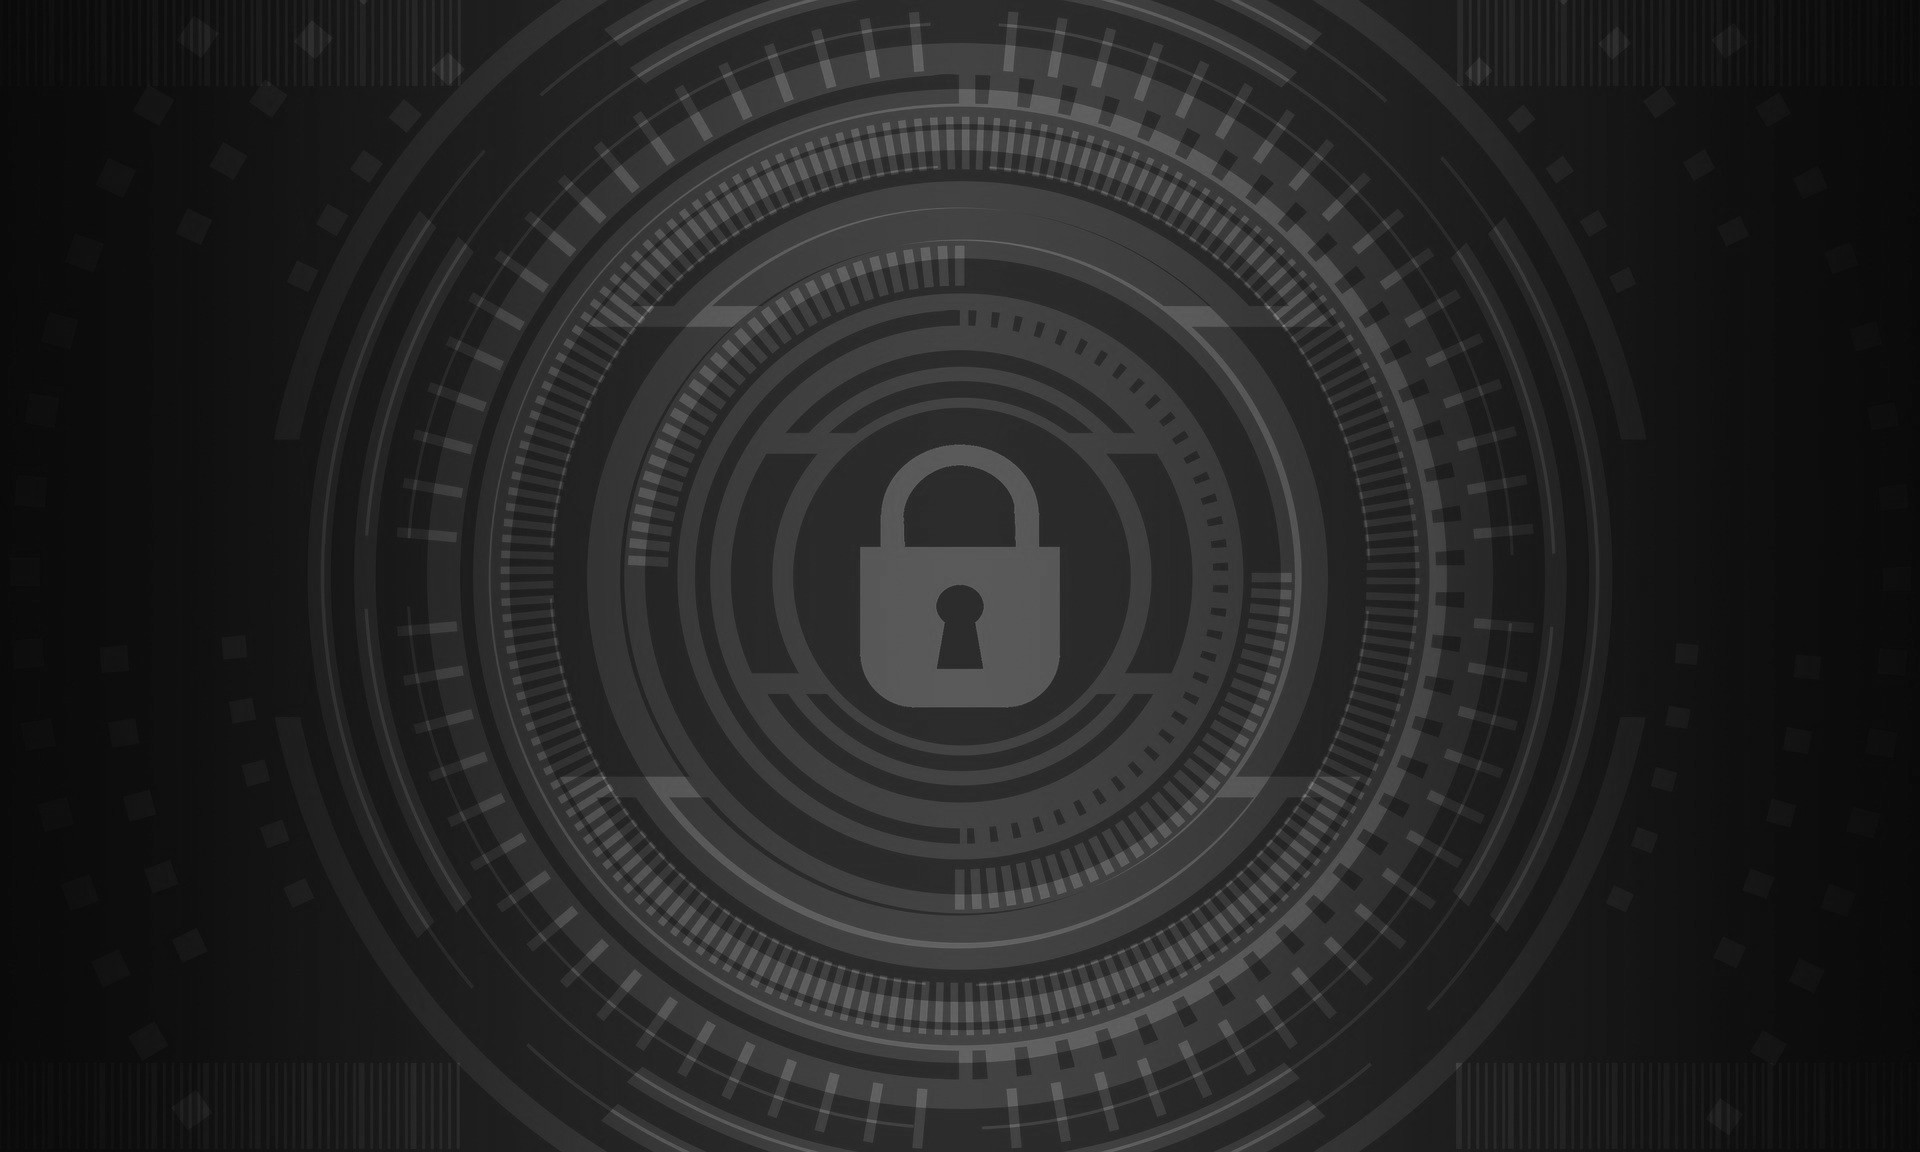
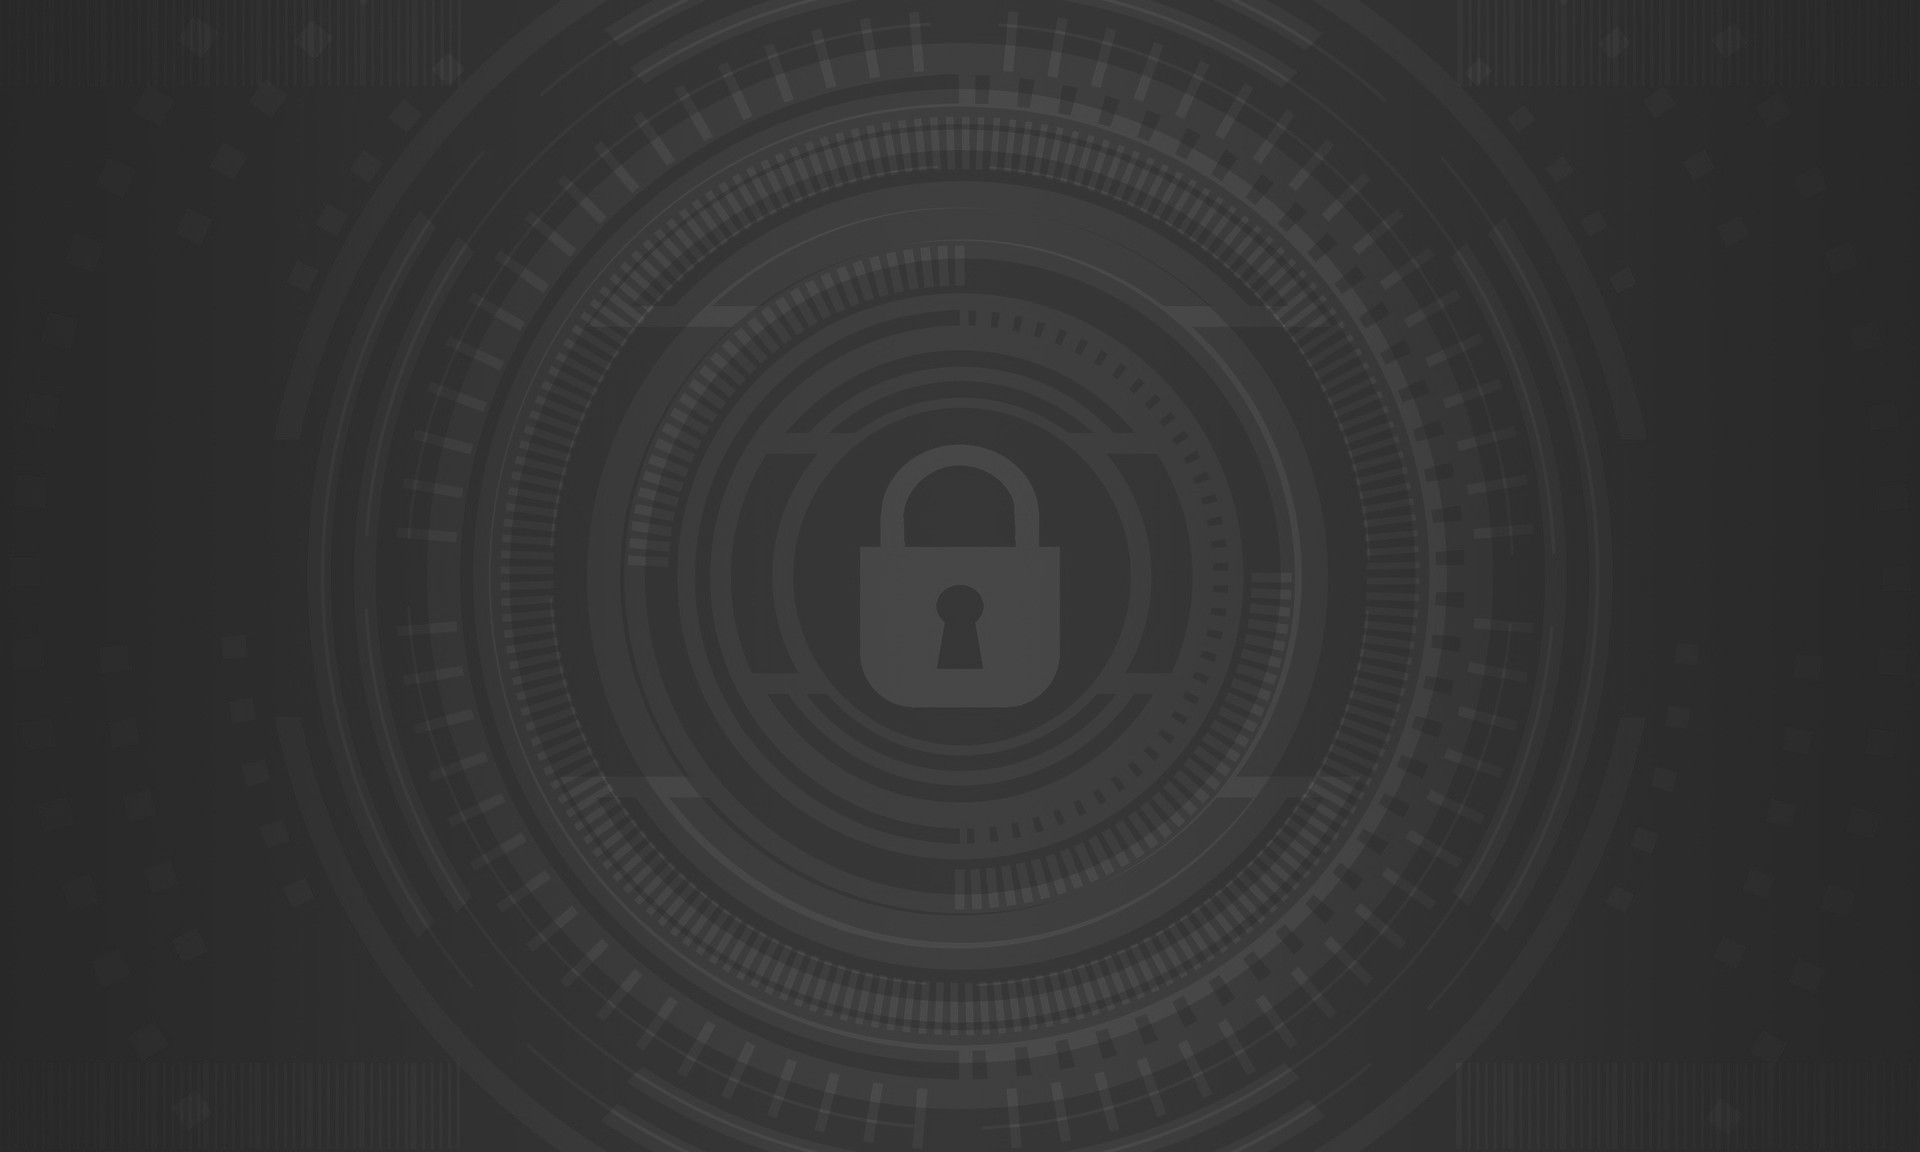
background e inicio readme

diff --git a/src/index.html b/src/index.html
@@ -2,7 +2,7 @@
 <html>
   <head>
     <meta charset="utf-8">
-    <title>Conexão Segura</title>
+    <title>Encode Yourself</title>
     <link rel="stylesheet" href="style.css" />
     <link rel="icon" href="images/icon.png" type="image/x-icon">
   </head>
@@ -21,21 +21,21 @@
 
       <div id="container">
         <div class="cxtxt">
-          <label for="decoded">Texto Decodificado</label>
+          <label for="decoded">Texto a ser Cifrado</label>
             <textarea id="decoded" placeholder="Digite o texto aqui"></textarea>
         </div>
 
         <div id="buttons">
           <br>
-          <input type="submit" id="cifrar" value="Cifrar">
+          <input type="submit" id="cifrar" value="Cifrar >>>">
 
-          <input type="submit" id="decifrar" value="Decifrar">
+          <input type="submit" id="decifrar" value="<<< Decifrar">
 
           <input type="reset" id="clear" value="Limpar">
         
         </div>
         <div class="cxtxt">
-          <label for="encoded">Texto Codificado</label>
+          <label for="encoded">Texto a ser Decifrado</label>
           <textarea id="encoded" placeholder="Digite o texto aqui"></textarea>
         </div>
       </div>

diff --git a/src/style.css b/src/style.css
@@ -6,13 +6,11 @@ body{
     text-align: center;
     color: #fff;
     background-color: rgb(22, 22, 22);
-    /* height: 100%; */
     padding: 20px;
     font-size: 24px; 
     font-family: Amaranth;
     background: url(images/cyber.jpg) no-repeat;
     background-size: cover;
-    background-position: center;
 }
 h1{
     font-family: 'Press Start 2P';
@@ -69,6 +67,7 @@ textarea{
     width: 100%;
     height: 200px;
     border-radius: 12px;
+    padding: 15px;
 }
 
 

diff --git a/README.md b/README.md
@@ -3,17 +3,10 @@
 ## Índice
 
 * [1. Prefácio](#1-prefácio)
-* [2. Resumo do projeto](#2-resumo-do-projeto)
-* [3. Objetivos de aprendizagem](#3-objetivos-de-aprendizagem)
-* [4. Considerações gerais](#4-considerações-gerais)
-* [5. Critérios de aceitação mínimos do
-  projeto](#5-criterios-de-aceitação-mínimos-do-projeto)
-* [6. Hacker edition](#6-hacker-edition)
-* [7. Considerações técnicas](#7-considerações-técnicas)
-* [8. Avaliação](#8-avaliação)
-* [9. Guias, dicas e leituras
-  complementares](#9-guias-dicas-e-leituras-complementares)
-* [10. Checklist](#10-checklist)
+* [2. Projeto "Encode Yourself"](#2-projeto-"encode-yourself")
+* [3. Funcionamento](#3-funcionamento)
+* [4. Considerações finais](#4-considerações-finais)
+* [5. Checklist](#5-checklist)
 
 ***
 
@@ -44,238 +37,17 @@ com facilidade e não oferecem muita segurança na comunição, mas a cifra de C
 muitas vezes pode fazer parte de um sistema mais complexo de criptografia, como
 a cifra de Vigenère, e tem aplicação no sistema ROT13.
 
-## 2. Resumo do projeto
+## 2. Projeto "Encode Yourself"
 
-O que eu tenho que fazer exatamente? Neste projeto você criará a primeira
-aplicação web do _bootcamp_. Nela o usuário poderá cifrar e decrifrar um texto
-indicando a chave de deslocamento (_offset_).
 
-O tema é livre. Você deve pensar em alguma situação de vida real em que seja
-necessário cifrar uma mensagem e pensar em como deve ser a experiência do
-usuário (tela, explicações, mensagens, cores, marca?, etc.). Algumas ideias de
-exemplo:
+## 3. Funcionamento 
 
-* Mensagens secretas para alguma pessoa.
-* Ferramenta de mensagens internas de uma organização em uma zona de conflito.
-* Cifrar cartões de crédito.
-* Criar senhas seguras para email.
 
-## 3. Objetivos de aprendizagem
+## 4. Considerações finais
 
-Neste projeto você aprenderá a construir uma aplicação web que interaja com o
-usuário através do navegador e a lógica para essa interação. Em outras palavras,
-você aprenderá:
 
-* Desenhar elementos de formulário em uma tela usando **HTML** e **CSS**.
-* Permitir o usuário interagir com elementos do DOM e fazer com que a aplicação
-  responda (cifrar/decifrar) quando ocorrer os **eventos de DOM**.
-* Manipular _strings_ (cadeias de texto).
-* Usar **controle de fluxo** (laços, condicionais, ...).
-* Atualizar a tela com os resultados (**manipular o DOM**).
-* **Implementar funções** dada uma descrição de comportamento.
-* Verificar a sua implementação com **provas unitárias**.
-* Entender as **necessidades do usuário** e propor soluções.
-* Organizar o seu tempo e priorizar tarefas em um ambiente de **alta
-  incerteza**.
 
-## 4. Considerações gerais
-
-* Este projeto deve ser resolvido individualmente.
-* O projeto será entregue subindo o seu código no GitHub (commit/push) e o
-  deploy será feito no GitHub Pages. Se não sabe o que é o GitHub, não se
-  preocupe, você aprendera durante o projeto.
-* Tempo para completar: tempo referência 2 semanas.
-
-## 5. Critérios de aceitação mínimos do projeto
-
-Use o alfabeto simples (somente maiúsculas e sem ç):
-
-* A B C D E F G H I J K L M N O P Q R S T U V W X Y Z
-
-### Definição do produto
-
-No README.md, escreva como você definiu seu usuário e qual foi o processo para
-definir o produto final a nível de expriência e interface.
-
-* Quem são os principais usuário do produto?
-* Quais são os objetivos do usuário em relação com o produto?
-* Como você acredita que o produto está resolvendo os problemas do usuário?
-
-### Interface do usuário (UI)
-
-A interface deve permitir ao usuário:
-
-* Eleger um _offset_ indicando quantas posições de deslocamento de caracteres
-  quer que a cifra utilize.
-* Inserir uma mensagem (texto) para ser cifrada.
-* Ver o resultado da mensagem cifrada.
-* Inserir uma mensagem (texto) para ser decifrada.
-* Ver o resultado da mensagem decifrada.
-
-### Scripts / Arquivos
-
-* `README.md`: deve explicar como "deployar", instalar e executar a aplicação,
-  assim como uma introdução a aplicação, suas funcionalidades e as decisões que
-  foram tomadas.
-* `src/index.html`: aqui será o ponto de entrada da sua aplicação. Este arquivo
-  deve conter a marcação HTML e chamar o CSS e JavaScript necessários.
-* `src/cipher.js`: aqui você deve implementar o objeto cipher, o qual deve estar
-  _exportado_ no objeto global (`window`). Este objeto (`cipher`) deve conter
-  dois métodos:
-  - `cipher.encode(offset, string)`: `offset` é o número de posições que
-      queremos mover para a direita no alfabeto e `string` é a mensagem (texto)
-      que queremos cifrar.
-  - `cipher.decode(offset, string)`: `offset` é o número de posições que
-      queremos mover para a esquerda no alfabeto e `string` é a mensagem (texto)
-      que queremos decifrar.
-* `src/index.js`: aqui você deve escutar os eventos de DOM, chamar
-  `cipher.encode()` e `cipher.decode()`.
-* `test/cipher.spec.js`: este arquivo contem alguns testes de exemplo e aqui
-  você deve implementar os testes para `cipher.encode()` e `cipher.decode()`.
-
-## 6. Hacker Edition
-
-As seções chamadas _Hacker Edition_ são **opcionais**. Se você **terminou** tudo
-e ainda sobrou tempo, faça essa parte. Assim você poderá aprofundar e exercitar
-mais sobre os objetivos de aprendizagem do projeto.
-
-A descrição geral deste projeto não menciona o que aconteceria com letras
-minúsculas ou outros caracteres (como espaço, pontuação, ç, ...). O
-_boilerplate_ inclui alguns testes (comentados) que vocês podem usar como ponto
-de partida para implementar o suporte para esses casos.
-
-Também não foi mencionado o que aconteceria com _offset_ negativo. Como parte da
-hacker edition te convidamos a explorar esse caso sozinha.
-
-## 7. Considerações técnicas
-
-A lógica do projeto deve estar implementada inteiramente em JavaScript(ES6).
-Nesse projeto **NÃO** está permitido usar bibliotecas ou frameworks, só vanilla
-JavaScript.
-
-Você não deve usar a _pseudo-variable_ `this`.
-
-Os testes unitários devem cubrir no mínimo de 70% dos _statements_, _functions_
-e _lines_, e um mínimo de 50% de _branches_. O _boilerplate_ já contem o setup e
-configurações necessárias para executar os testes assim como _code coverage_
-para ver o nível de cobertura dos testes usando o comando `npm test`.
-
-O _boilerplate_ inclui testes de exemplo, como ponto de partida.
-
-Para começar esse projeto você terá que fazer um _fork_ e _clonar_ este
-repositório que contém o _boilerplate_.
-
-O _boilerplate_ contém uma estrutura de arquivos como ponto de partida assim
-como toda a configuração de dependências e testes de exemplo:
-
-```text
-./
-├── .editorconfig
-├── .eslintrc
-├── .gitignore
-├── README.md
-├── package.json
-├── src
-│   ├── cipher.js
-│   ├── index.html
-│   ├── index.js
-│   └── style.css
-└── test
-    ├── cipher.spec.js
-    ├── headless.js
-    └── index.html
-```
-
-O _boilerplate_ inclui tarefas que executam [eslint](https://eslint.org/) e
-[htmlhint](https://github.com/yaniswang/HTMLHint) para verificar o `HTML` e
-`JavaScript` com respeito a uma guia de estilos. Ambas tarefas são executadas
-automaticamente antes de executar os testes quando usamos o comando `npm run
-test`.
-
-No caso do `JavaScript` estamos usando o `eslint` que está configurado no
-arquivo `.eslintrc` que contem o mínimo de informação como versão do
-JavaScript/ECMAScript, o ambiente (_browser_ nesse caso) e as [regras
-recomendadas (`"eslint:recommended"`)](https://eslint.org/docs/rules/).
-
-Nas regras/guias de estilo usaremos das recomandações padrão tanto para o
-`eslint` quanto `htmlhint`.
-
-## 9. Guias, dicas e leituras complementares
-
-### Primeiros passos
-
-1. Antes de mais nada, se assegure de ter um bom :pencil: editor de texto, algo
-   como [Code](https://code.visualstudio.com/) ou [Atom](https://atom.io/).
-2. Para executar os comandos você precisará de um :shell: UNIX Shell, que é um
-   programa que interpreta linhas de comando (command-line interpreter) e também
-   deve ter o git instalado. Se você usa um sistema operacional "UNIX-like", como
-   GNU/Linux ou MacOS, você já tem um _shell_ (terminal) instalado (e
-   provavelmente o `git` também). Se você usa Windows você pode usar o [Git
-   bash](https://git-scm.com/download/win), embora seja recomendado que você
-   teste :penguin: GNU/Linux.
-3. Faça seu próprio :fork_and_knife:
-   [fork](https://help.github.com/articles/fork-a-repo/) do repositório. Seus
-   _mentores_ compartilharão com você um _link_ para um repositório privado e te
-   darão acesso a este repositório.
-4. :arrow_down: [Clone](https://help.github.com/articles/cloning-a-repository/)
-   o _fork_ para seu computador (cópia local).
-5. 📦 Instale as dependências do projeto rodando o comando `npm install`. Mas
-   antes disso tenha certeza de ter instalado o [Node.js](https://nodejs.org/)
-   (que inclui o [npm](https://docs.npmjs.com/)).
-6. Se tudo foi bem, você deve conseguir executar os :traffic_light: testes
-   unitários com o comando `npm test`.
-7. Para ver a interface do seu programa no navegador, use o comando `npm start`
-   para iniciar o servidor web e entre na url `http://localhost:5000` no seu
-   navegador.
-8. Let's Code! :rocket:
-
-### Recursos extras
-
-A seguir um vídeo do Daniel que te ajudará a entender a fórmula matemática usada
-pela Cifra de César e algumas coisas mais que deve saber para resolver o seu
-projeto. Escute com atenção e siga seus conselhos ! :)
-
-[![Dicas Cifra de
-César](https://img.youtube.com/vi/utiLWBXmNQU/0.jpg)](https://www.youtube.com/watch?v=utiLWBXmNQU)
-
-Desenho da experiência do usuário (User Experience Design):
-
-* Ideação
-* Prototipagem
-* Teste e iteração
-
-Desenvolvimento Front-end:
-
-* Valores
-* Tipos
-* Variáveis
-* Controle de fluxo
-* Testes unitários
-* [Aprenda mais sobre
-  `charCodeAt()`](https://developer.mozilla.org/pt-BR/docs/Web/JavaScript/Reference/Global_Objects/String/charCodeAt)
-* [Aprenda mais sobre
-  `String.fromCharCode()`](https://developer.mozilla.org/pt-BR/docs/Web/JavaScript/Reference/Global_Objects/String/fromCharCode)
-* [Aprenda mais sobre
-  `ASCII`](https://web.fe.up.pt/~ee96100/projecto/Tabela%20ascii.htm)
-* [Documentação do NPM](https://docs.npmjs.com/)
-
-Ferramentas:
-
-* GitHub y GitHub Pages.
-
-Organização do trabalho:
-
-* [Agilidade](https://www.youtube.com/watch?v=vozsjbh4noU)
-* [Scrum em menos de 2 minutos](https://www.youtube.com/watch?v=IKZHPjCQ2m8)
-* [Scrum em detalhes](https://www.youtube.com/watch?v=mt2hM4yrPn0). Não
-  esperamos que você faça tudo isso neste projeto. Iremos aprofundando nesses
-  conceitos ao longo do _bootcamp_.
-* [Guia em espanhol para a
-  cifra](https://docs.google.com/presentation/d/e/2PACX-1vTQ7-8LZDHrT4Y6AOBN72Nkfz1eJAeseBHpcHX8BSq0aFCFoZmuMjluMeyFNgK9ISKxTz0H03yGfJiT/pub?start=false&loop=false&delayms=60000)
-
-## 10. Checklist
-
-Essa seção é para te ajudar a ter um controle do que você precisa completar.
+## 5. Checklist
 
 ### Parte Obrigatória
 
